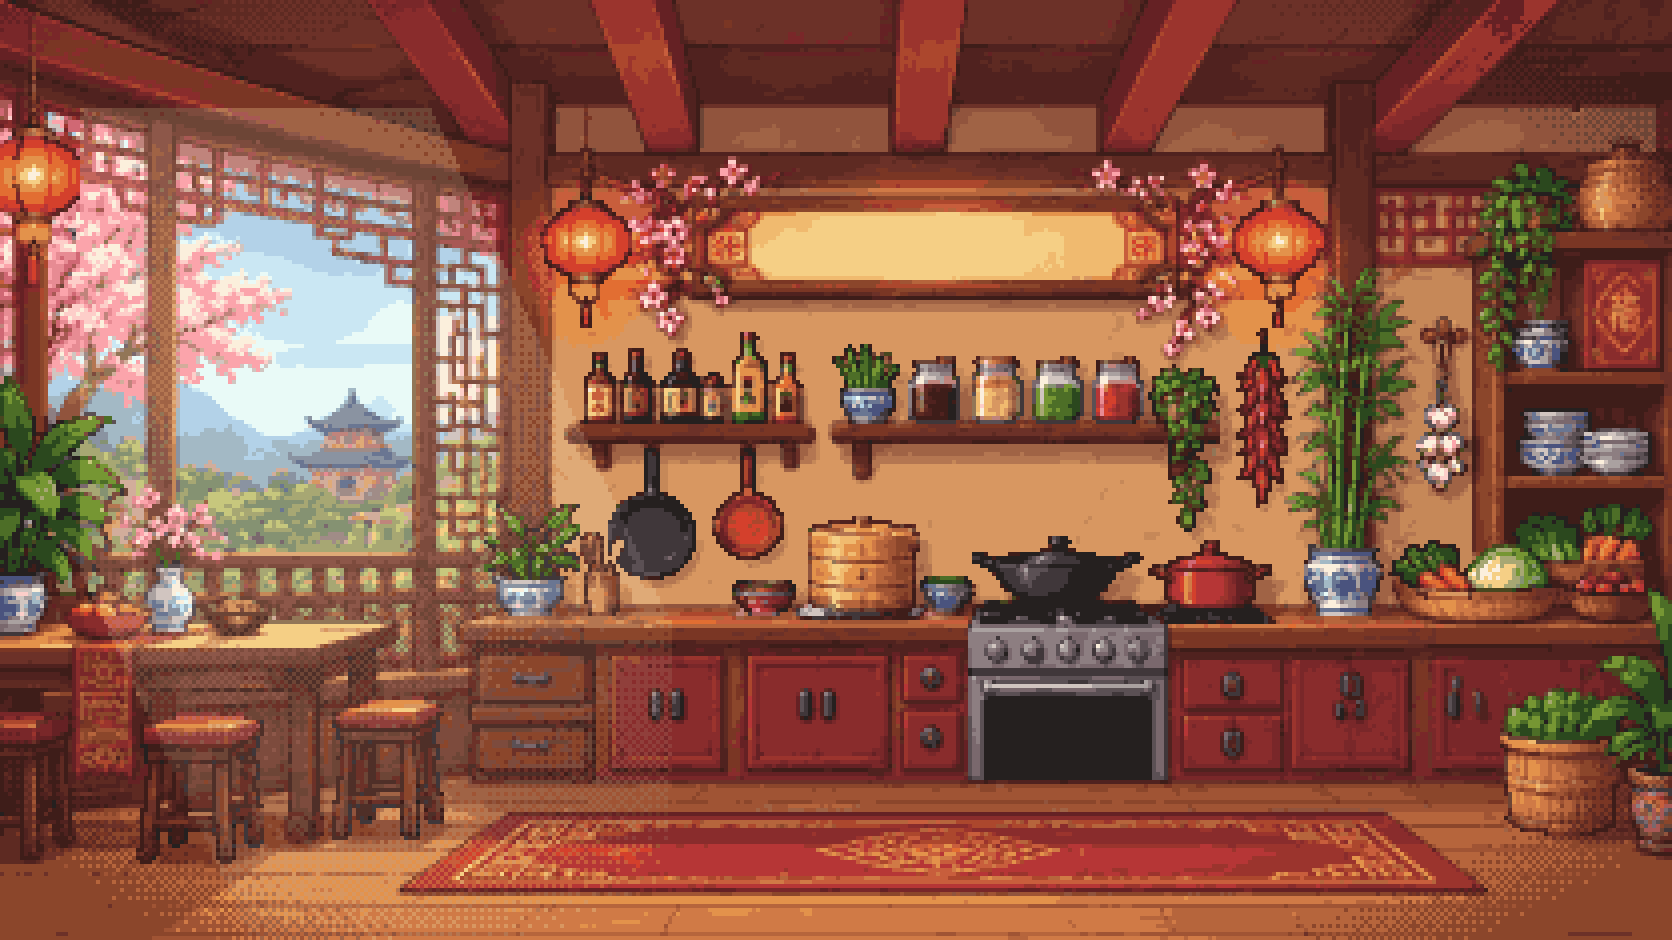
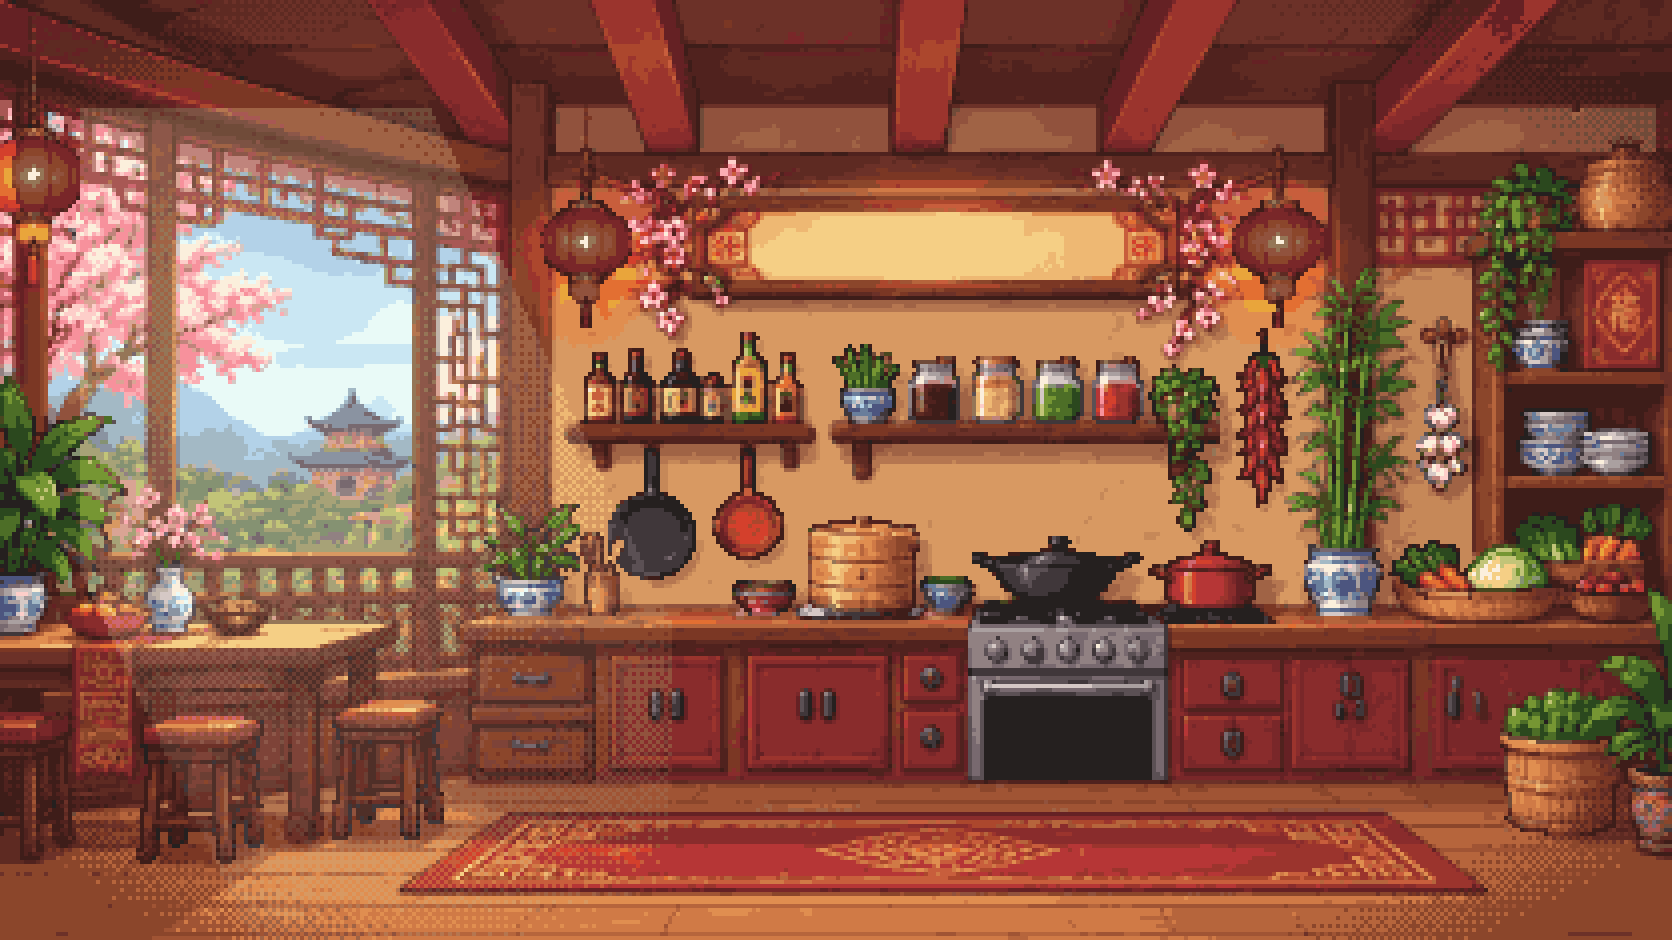
Day and night: lamps off in the morning and afternoon, lit at evening and night
lamps_off() in day_night.py redoes the v5 lighting pass on the unlit kitchen with only the windows
and the hearth fire, darkens each lantern's lit glass and puts out the Mediterranean candle. The
morning and afternoon start from it (<name>_lamps_off.png); evening and night keep the lit v5 kitchen.

diff --git a/design/pixel-art/day_night.py b/design/pixel-art/day_night.py
@@ -8,11 +8,13 @@ not the drawing:
   - a sun drawn in a window is moved to where the hour puts it (low on the left in the morning, high in the
     afternoon, low on the right in the evening) and becomes a moon at night, always behind the window's buildings;
   - the lanterns (every traced object named lantern or lamp, from scene.json), the fire and candles light the room
-    around them: warm glows that fade out in dithered bands, the pixel-art way. Off in the morning and afternoon,
-    half on in the evening, full at night;
+    around them: warm glows that fade out in dithered bands, the pixel-art way. Half on in the evening, full at
+    night. In the morning and afternoon they are off: the v5 lighting is redone with only the windows and the hearth
+    fire, the lanterns' glass goes dark and the candles are put out (lamps_off);
   - each picture is put back on a palette of its own (64 colors), so it stays pixel art.
 
-    python design/pixel-art/day_night.py   ->   drafts/traced-kitchens/<name>/<name>_<hour>.png, compare_day_night.png
+    python design/pixel-art/day_night.py   ->   drafts/traced-kitchens/<name>/<name>_<hour>.png, <name>_lamps_off.png,
+                                                compare_day_night.png
 """
 from __future__ import annotations
 
@@ -23,6 +25,9 @@ from pathlib import Path
 import cv2
 import numpy as np
 from PIL import Image
+
+sys.path.insert(0, str(Path(__file__).resolve().parent))
+import trace_kitchens as tk  # the v5 lighting pass, to redo it with the lamps off
 
 HERE = Path(__file__).resolve().parent
 TRACED = HERE / "drafts" / "traced-kitchens"
@@ -45,6 +50,8 @@ SUNS = {
 # Lights that are no traced object: fire and candles (x, y, reach) on the original; lanterns come from scene.json
 FLAMES = {"mediterranean": [(265, 530, 420), (583, 595, 110)]}
 LANTERN_REACH = 230
+CANDLES = {"mediterranean": [(583, 595)]}    # flames put out by day (x, y on the original); the hearth fire stays
+HEARTH_CORE = 60                             # a v5 light with a core this big (on the original) is a fire: it stays
 
 # The hours. room: color multipliers; cool: how much the shadows turn blue; gold: how much the highlights turn
 # golden; beams: color and strength of the sunlight slanting in (none at night); sky: its color and how much of it;
@@ -120,6 +127,34 @@ def beams(boxes: list[tuple[int, int, int, int]], shape: tuple[int, int], sun_le
     return np.floor(light * 3 + dither * 0.9) / 3
 
 
+def lamps_off(name: str) -> np.ndarray:
+    """The v5 kitchen by day with its lamps off: the v5 lighting pass (trace_kitchens.light) run again on the unlit
+    kitchen with only the windows and the hearth fire, then each lantern's lit glass (bright, warm pixels) made dark
+    and dull and each candle flame put out. Every color stays in the kitchen's palette."""
+    folder = TRACED / name
+    unlit = np.array(Image.open(folder / f"{name}_unlit.png").convert("RGB"))
+    pal = np.unique(unlit.reshape(-1, 3), axis=0)
+    pieces = json.loads((folder / "scene.json").read_text(encoding="utf-8"))["pieces"]
+    shapes = {key: (p["x"], p["y"], np.array(Image.open(folder / "sprites" / f"{key}.png").convert("RGBA"))[..., 3] > 0)
+              for key, p in pieces.items()}
+    strength = tk.LIGHTING.get(name, 1.0)
+    daylight = [(x / SCALE, y / SCALE, r / SCALE, s * strength, c / SCALE) for x, y, r, s, c in tk.LIGHTS.get(name, [])
+                if c == 0 or c > HEARTH_CORE]
+    img = tk.light(unlit, pal, shapes, daylight)
+    for key, (x, y, mask) in shapes.items():
+        if "lantern" in key or "lamp" in key:
+            part = img[y:y + mask.shape[0], x:x + mask.shape[1]].astype(np.float32)
+            lit = mask & (part.max(axis=2) > 165) & ((part[..., 0] - part[..., 2] > 45) | (part.min(axis=2) > 215))
+            part[lit] = part[lit] * 0.5 + part[lit].mean(axis=1, keepdims=True) * 0.12
+            img[y:y + mask.shape[0], x:x + mask.shape[1]] = tk.to_palette(part.astype(np.uint8), pal)
+    for cx, cy in CANDLES.get(name, []):
+        cx, cy = cx // SCALE, cy // SCALE
+        part = img[cy - 8:cy + 3, cx - 4:cx + 5].astype(np.int32)
+        part[part.min(axis=2) > 200] = (150, 140, 120)                    # the flame becomes a dark wick
+        img[cy - 8:cy + 3, cx - 4:cx + 5] = tk.to_palette(part.astype(np.uint8), pal)
+    return img
+
+
 def lights_of(name: str) -> list[tuple[float, float, float]]:
     """(x, y, reach) on the pixel grid: every lantern or lamp of the kitchen's scene, and its flames."""
     pieces = json.loads((TRACED / name / "scene.json").read_text(encoding="utf-8"))["pieces"]
@@ -159,11 +194,12 @@ def palette_of(img: np.ndarray, k: int) -> np.ndarray:
     return centers.astype(np.uint8)[labels.ravel()].reshape(img.shape)
 
 
-def hour(name: str, day: np.ndarray, time: str) -> np.ndarray:
+def hour(name: str, day: np.ndarray, off: np.ndarray, time: str) -> np.ndarray:
+    """One hour of the kitchen: day is the v5 kitchen (lamps lit), off the same with the lamps off."""
     t = TIMES[time]
     h, w = day.shape[:2]
     out_mask = outdoors(day, WINDOWS.get(name, []))
-    base = move_sun(name, day, time)
+    base = move_sun(name, day if t["lights"] > 0 else off, time)
     img = base.astype(np.float32)
     room = np.clip(img * np.array(t["room"], np.float32), 0, 255)
     lum = (img.mean(axis=2, keepdims=True) / 255)
@@ -204,10 +240,12 @@ def main(names: list[str]) -> None:
     for name in names:
         folder = TRACED / name
         day = np.array(Image.open(folder / f"{name}.png").convert("RGB"))
+        off = lamps_off(name)
+        Image.fromarray(off).save(folder / f"{name}_lamps_off.png")
         versions = {}
         for time in TIMES:
-            # the afternoon is the v5 kitchen itself, unless its sun has to move
-            img = day if time == "afternoon" and name not in SUNS else hour(name, day, time)
+            # the afternoon is the v5 kitchen with the lamps off, unless its sun has to move
+            img = off if time == "afternoon" and name not in SUNS else hour(name, day, off, time)
             versions[time] = img
             Image.fromarray(img).save(folder / f"{name}_{time}.png")
             Image.fromarray(img).resize((img.shape[1] * 4, img.shape[0] * 4), Image.NEAREST).save(folder / f"{name}_{time}_x4.png")

diff --git a/docs/plans/README.md b/docs/plans/README.md
@@ -60,7 +60,7 @@ Everything we are working on or have agreed to do next, in one place. Owners are
 | 9 | **README numbers:** the freshness models' final test results (fish 87.4%, produce 98.8%) in the main README | `notebooks/05` | | to do |
 | 10 | **Freshness per-source check:** Fish Eyes FFE photos score 0.76 against 0.97 for the other fish source | [RELIABILITY.md](RELIABILITY.md#3-the-ai-models) | | planned |
 | 11 | **Housekeeping:** move the Foundry agent folder (`my-agent-n6agvd/`) out of the repository folder | | med27-coder | to do |
-| 12 | **Kitchen art v5, day and night:** each traced kitchen in morning, day, evening and night light (sky in the windows recolored, lanterns lit at night, the room's light shifted), picked by the visitor's clock or the theme. Drafts made with `design/pixel-art/day_night.py`; next: show them in the app | [archive/README.md](../../design/pixel-art/archive/README.md) | Claude | in progress |
+| 12 | **Kitchen art v5, day and night:** each traced kitchen in morning, day, evening and night light (sky in the windows recolored, lanterns lit at night, the room's light shifted), picked by the visitor's clock or the theme. Lamps are off by day (morning, afternoon) and lit at evening and night. Drafts made with `design/pixel-art/day_night.py`; next: show them in the app | [archive/README.md](../../design/pixel-art/archive/README.md) | Claude | in progress |
 | 13 | **More data for the models:** what each model is short of, candidate datasets with licenses, download order | [DATA_AND_MODELS.md](DATA_AND_MODELS.md) | | planned |
 | 14 | **Kitchen art v6 (later):** a team concept sheet per kitchen (room, chefs, title sign, props), started with the colorful Saffron Market | [future-works/v6/](../../design/pixel-art/future-works/v6/README.md) | team (sheets), Claude | set aside |
 
